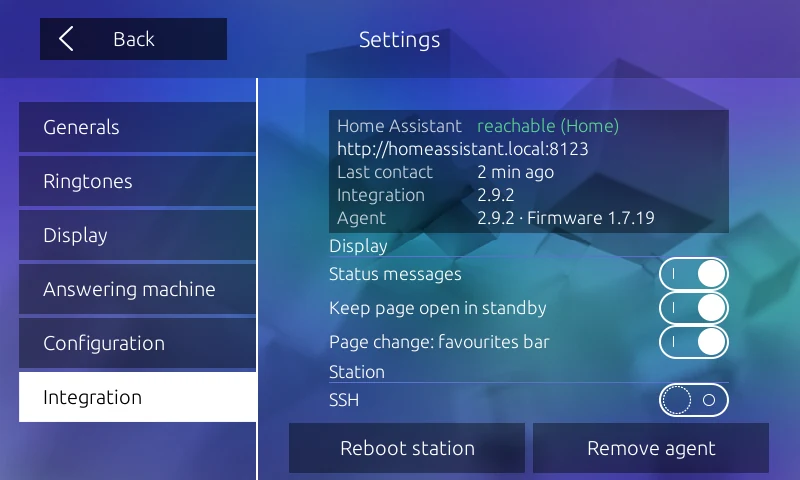
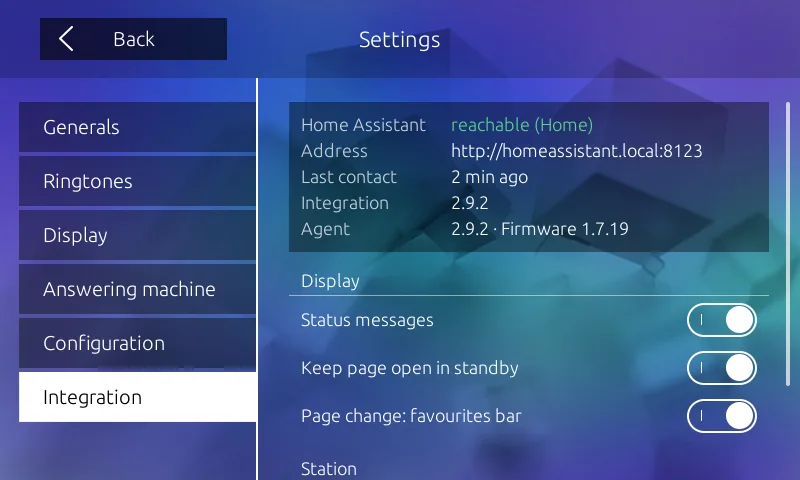
docs: render the Integration tab picture with the aligned column layout
The picture still showed the tab before its relayout: narrower rows, the
address on a line without a label and everything on one screen. The tab
now has an Address row and wider rows, and the Station section with SSH,
Reboot station and Remove agent is reached by scrolling.

Rendered like the other display pictures: this tree's pages applied to
a copy of the 1.7.19 skin, run on the firmware's Qt 4.8 libraries under
qemu-arm, English, 800x480, with stand-in status values and the version
the tree reports. Not a capture from a station.

Changed region(s): [[0.3438, 0.1875, 1.0, 1.0]]

diff --git a/docs/display.md b/docs/display.md
@@ -473,7 +473,7 @@ maintenance operations the agent has enabled are offered.
 
 <table>
   <tr>
-    <td align="center"><strong>Integration tab</strong><br><img src="images/readme/display-settings-home-assistant-en.webp" alt="Station Settings, Integration tab: connection status block, the switches Status messages, Keep page open in standby, Page change and SSH, and the buttons Reboot station and Remove agent" width="360"></td>
+    <td align="center"><strong>Integration tab</strong><br><img src="images/readme/display-settings-home-assistant-en.webp" alt="Station Settings, Integration tab: status block with Home Assistant, Address, Last contact, Integration and Agent, then the Display switches Status messages, Keep page open in standby and Page change; the Station section with SSH, Reboot station and Remove agent follows when scrolling" width="360"></td>
     <td align="center"><strong>Generals: Tone buttons</strong><br><img src="images/readme/display-settings-tone-buttons-en.webp" alt="Station Settings, Generals tab with the Tone buttons switch; the tab list ends with Integration" width="360"></td>
   </tr>
 </table>
